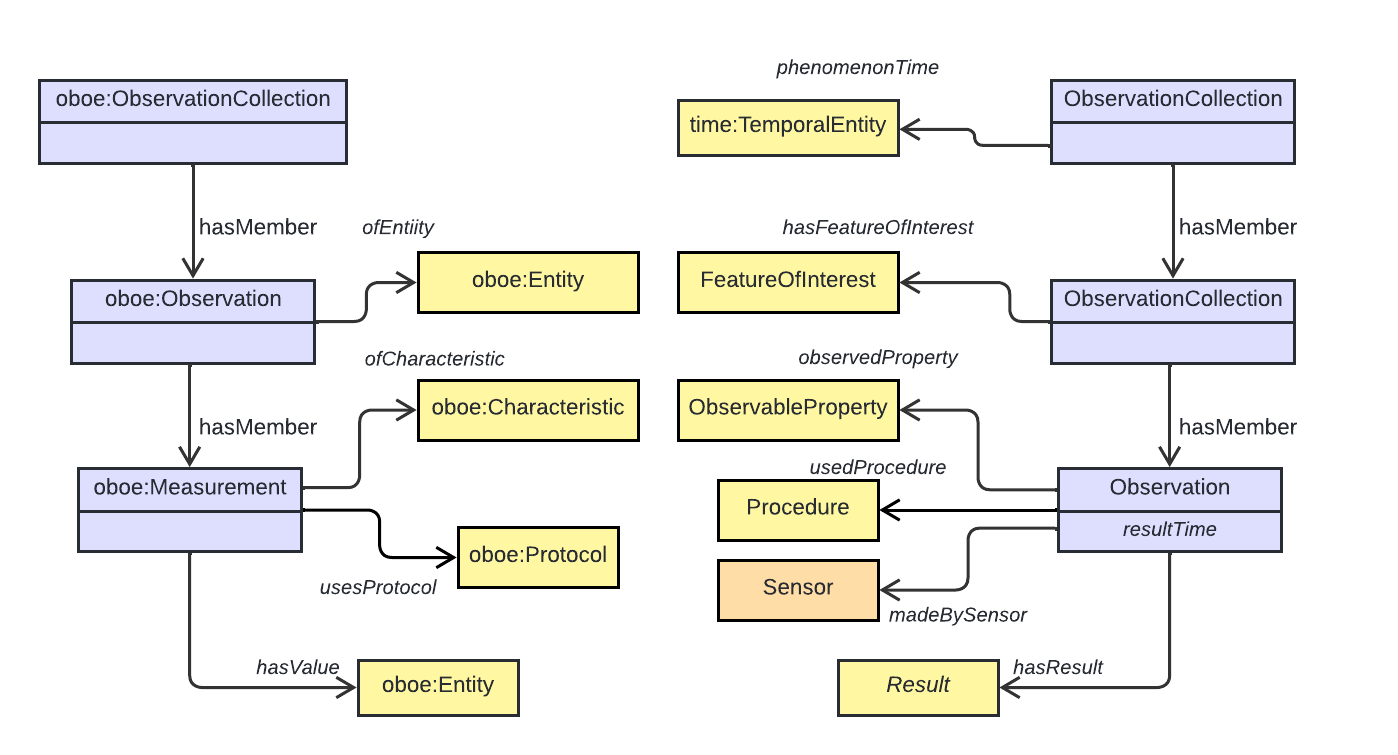
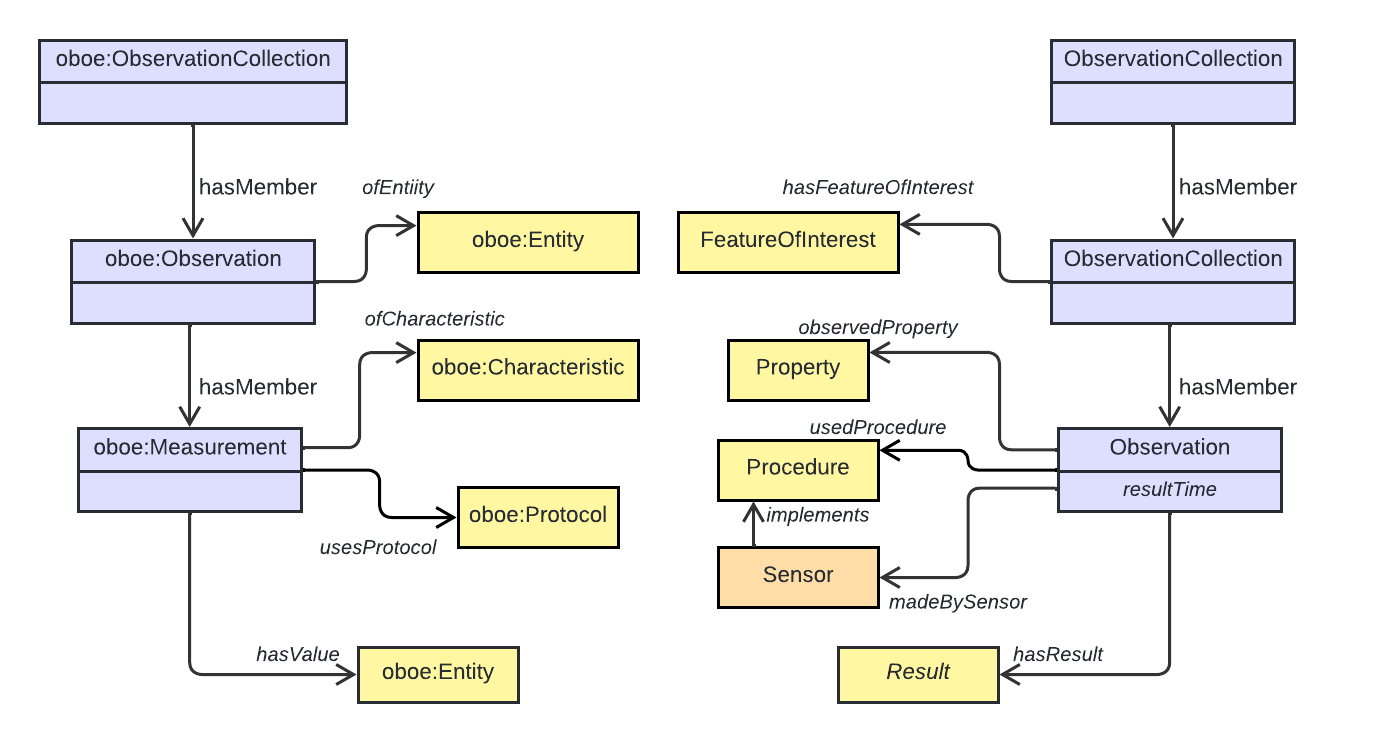
Remove redundant forProperty restrictions Remove property specializations from diagrams

diff --git a/ssn/chapters/Actuation.html b/ssn/chapters/Actuation.html
@@ -382,21 +382,6 @@
                 <tr class="ssn">
                     <th class="restrictions">Restrictions</th>
                     <td>
-                        <span about="sosa:Actuator" rel="rdfs:subClassOf" resource="[_:SOSAActuator4]"></span>
-                        <span about="[_:SOSAActuator4]" typeof="owl:Restriction"></span>
-                        <span about="[_:SOSAActuator4]" rel="owl:onProperty" resource="sosa:implements"><a
-                                href="#SOSAimplements">sosa:implements</a></span>
-                        <span about="[_:SOSAActuator4]" property="owl:minCardinality" content="1"
-                            datatype="xsd:nonNegativeInteger"><em><b>MIN 1</b></em></span>
-                        <br>
-                        <span about="sosa:Actuator" rel="rdfs:subClassOf" resource="[_:SOSAActuator2]"></span>
-                        <span about="[_:SOSAActuator2]" typeof="owl:Restriction"></span>
-                        <span about="[_:SOSAActuator2]" rel="owl:onProperty" resource="sosa:forProperty"><a
-                                href="#SOSAforProperty">sosa:forProperty</a></span>
-                        <span about="[_:SOSAActuator2]" property="owl:allValuesFrom"
-                            resource="sosa:Property"><em><b>ONLY</b></em> <a
-                                href="#SOSAProperty">sosa:Property</a></span>
-                        <br>
                         <span about="sosa:Actuator" rel="rdfs:subClassOf" resource="[_:SOSAActuator1]"></span>
                         <span about="[_:SOSAActuator1]" typeof="owl:Restriction"></span>
                         <span about="[_:SOSAActuator1]" rel="owl:onProperty" resource="sosa:madeActuation"><a
@@ -404,6 +389,14 @@
                         <span about="[_:SOSAActuator1]" property="owl:allValuesFrom"
                             resource="sosa:Actuation"><em><b>ONLY</b></em> <a
                                 href="#SOSAActuation">sosa:Actuation</a></span>
+                        <br>
+                        <span about="sosa:Sensor" rel="rdfs:subClassOf" resource="[_:SOSAActuator2]"></span>
+                        <span about="[_:SOSAActuator2]" typeof="owl:Restriction"></span>
+                        <span about="[_:SOSAActuator2]" rel="owl:onProperty" resource="sosa:actsOn"><a
+                                href="#SOSAactsOn">sosa:actsOn</a></span>
+                        <span about="[_:SOSAActuator2]" property="owl:allValuesFrom"
+                            resource="sosa:Property"><em><b>ONLY</b></em> <a
+                                href="#SOSAProperty">sosa:Property</a></span>
                     </td>
                 </tr>
                 <tr>

diff --git a/ssn/chapters/Observation.html b/ssn/chapters/Observation.html
@@ -516,22 +516,6 @@
                         <span about="[_:SOSASensor3]" property="owl:allValuesFrom"
                             resource="sosa:Stimulus"><em><b>ONLY</b></em> <a
                                 href="#SOSAStimulus">sosa:Stimulus</a></span>
-                        <br>
-                        <span about="sosa:Sensor" rel="rdfs:subClassOf" resource="[_:SOSASensor4]"></span>
-                        <span about="[_:SOSASensor4]" typeof="owl:Restriction"></span>
-                        <span about="[_:SOSASensor4]" rel="owl:onProperty" resource="sosa:implements"><a
-                                href="#SOSAimplements">sosa:implements</a></span>
-                        <span about="[_:SOSASensor4]" property="owl:minCardinality" content="1"
-                            datatype="xsd:nonNegativeInteger"><em><b>MIN 1</b></em></span>
-                        <br>
-                        <span about="sosa:Sensor" rel="rdfs:subClassOf" resource="[_:SOSASensor6]"></span>
-                        <span about="[_:SOSASensor6]" typeof="owl:Restriction"></span>
-                        <span about="[_:SOSASensor6]" rel="owl:onProperty" resource="sosa:implements"><a
-                                href="#SOSAimplements">sosa:implements</a></span>
-                        <span about="[_:SOSASensor6]" property="owl:allValuesFrom"
-                            resource="sosa:Procedure"><em><b>ONLY</b></em> <a
-                                href="#SOSAProcedure">sosa:Procedure</a></span>
-                        <br>
                     </td>
                 </tr>
                 <tr>
